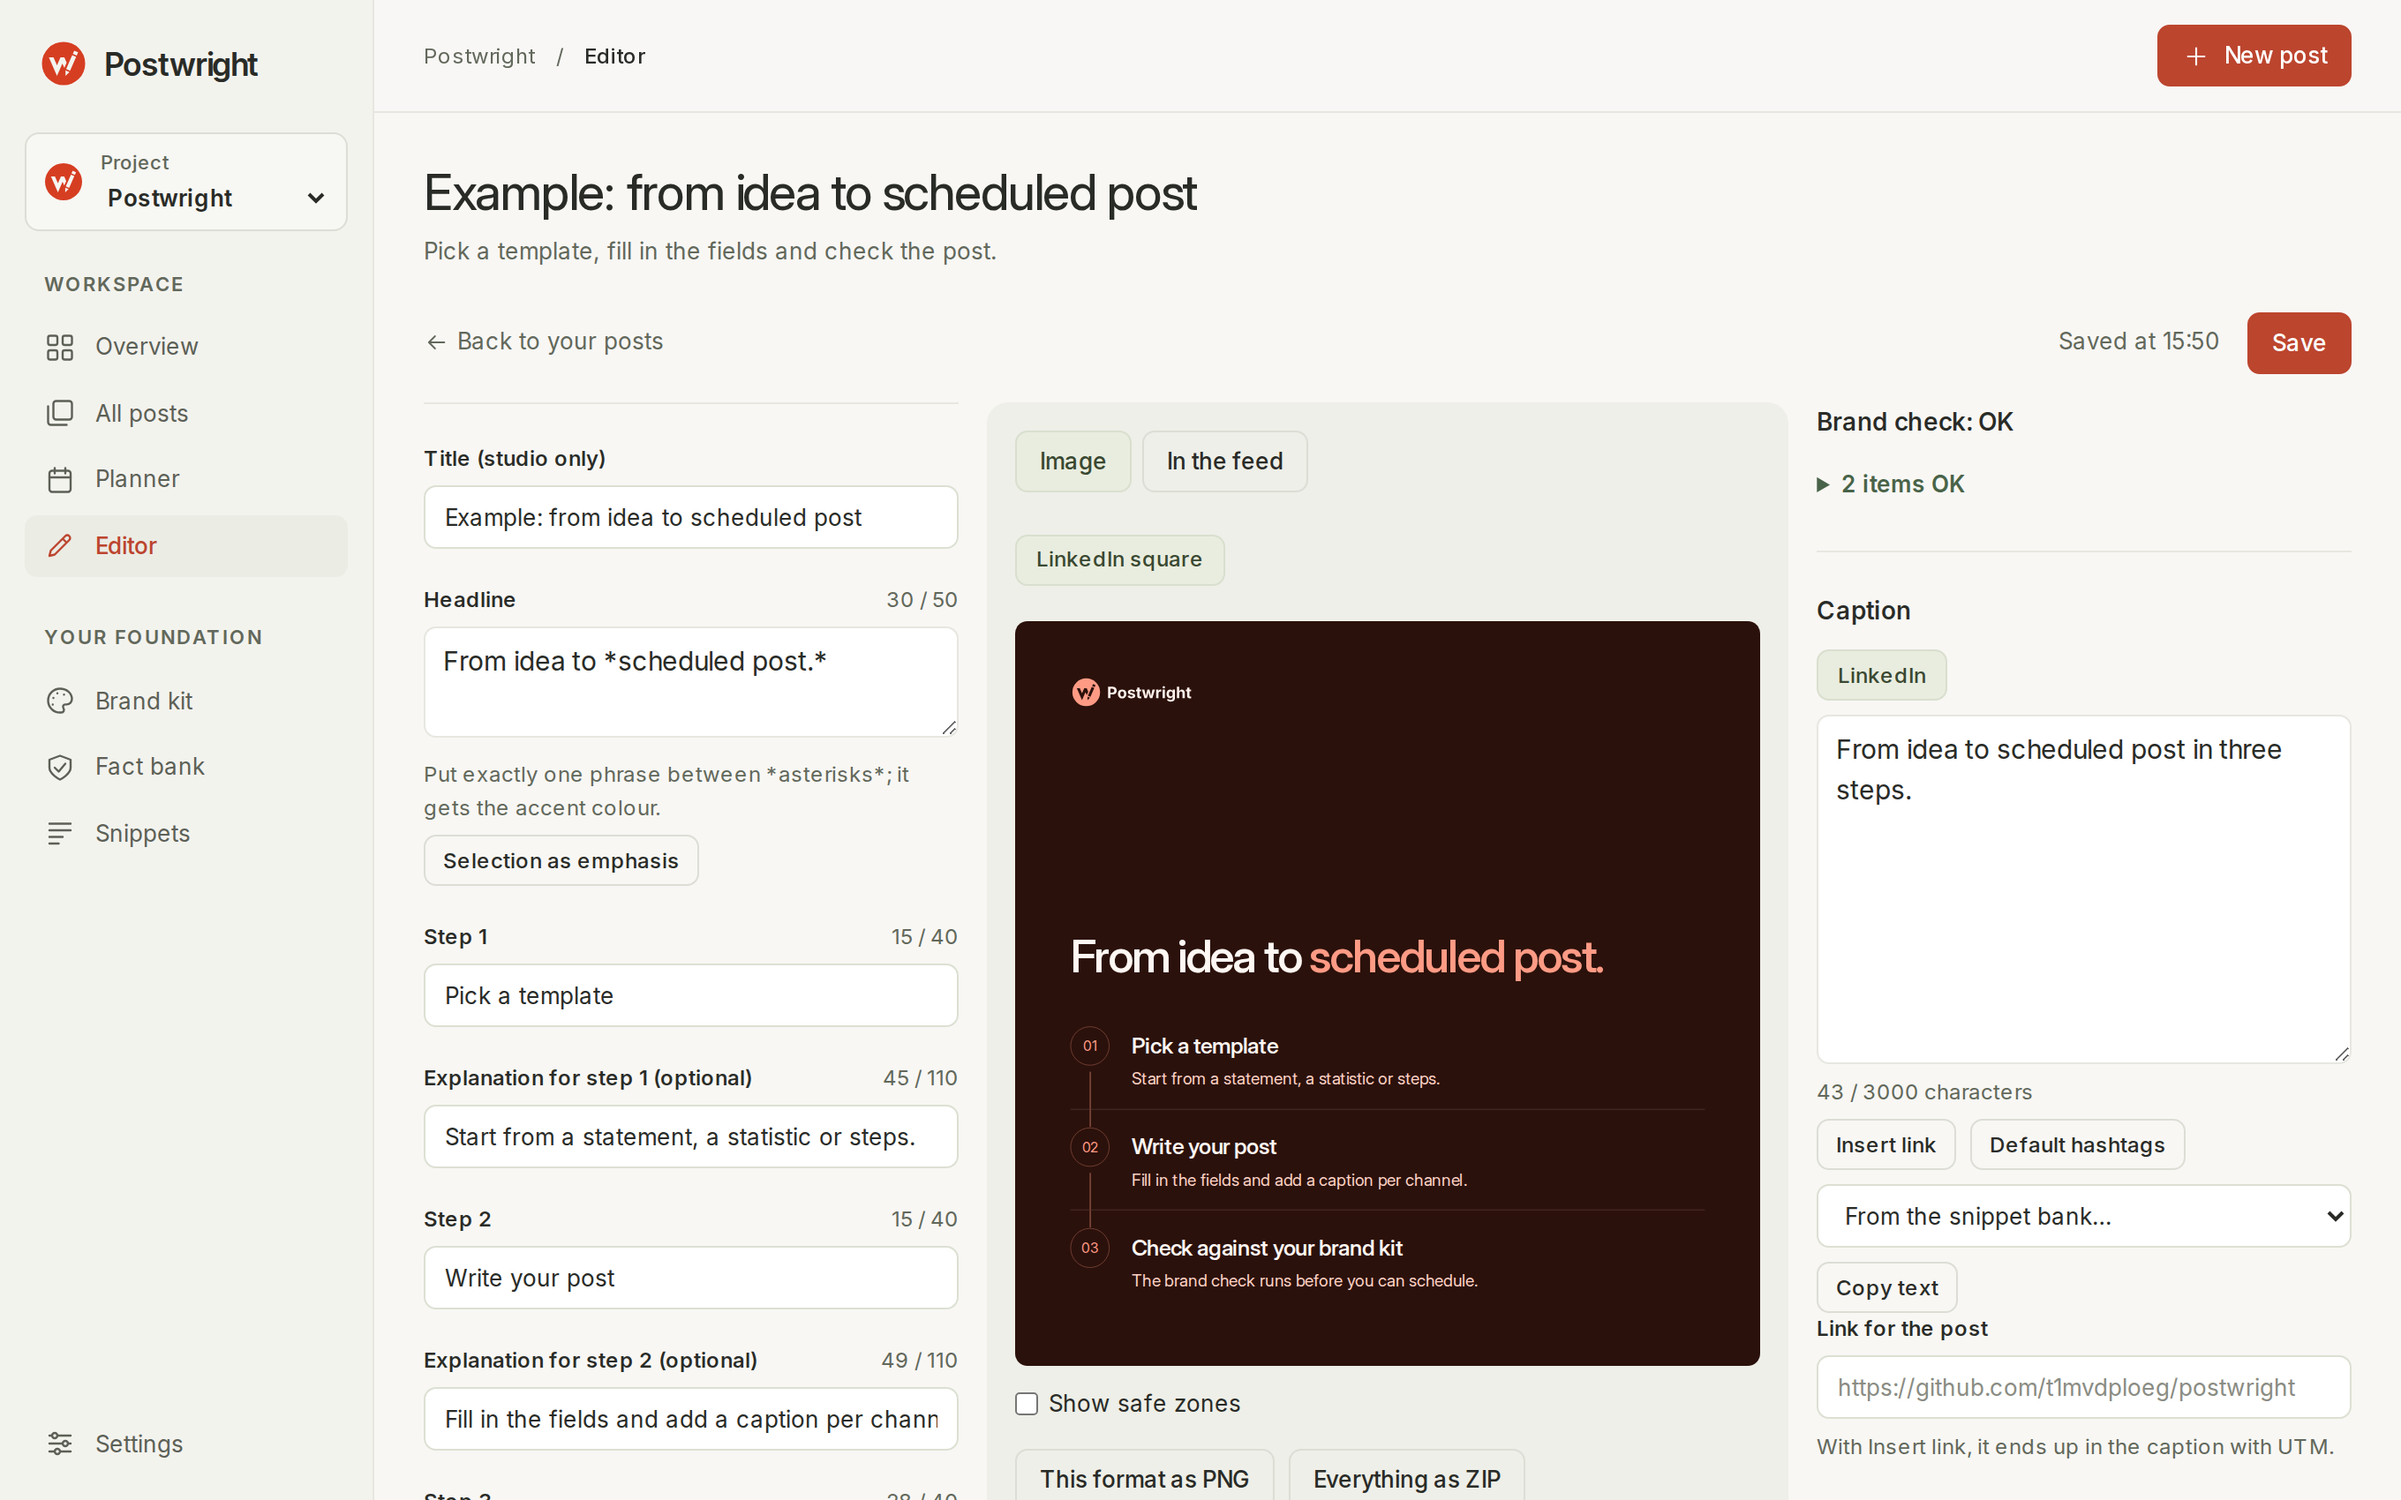
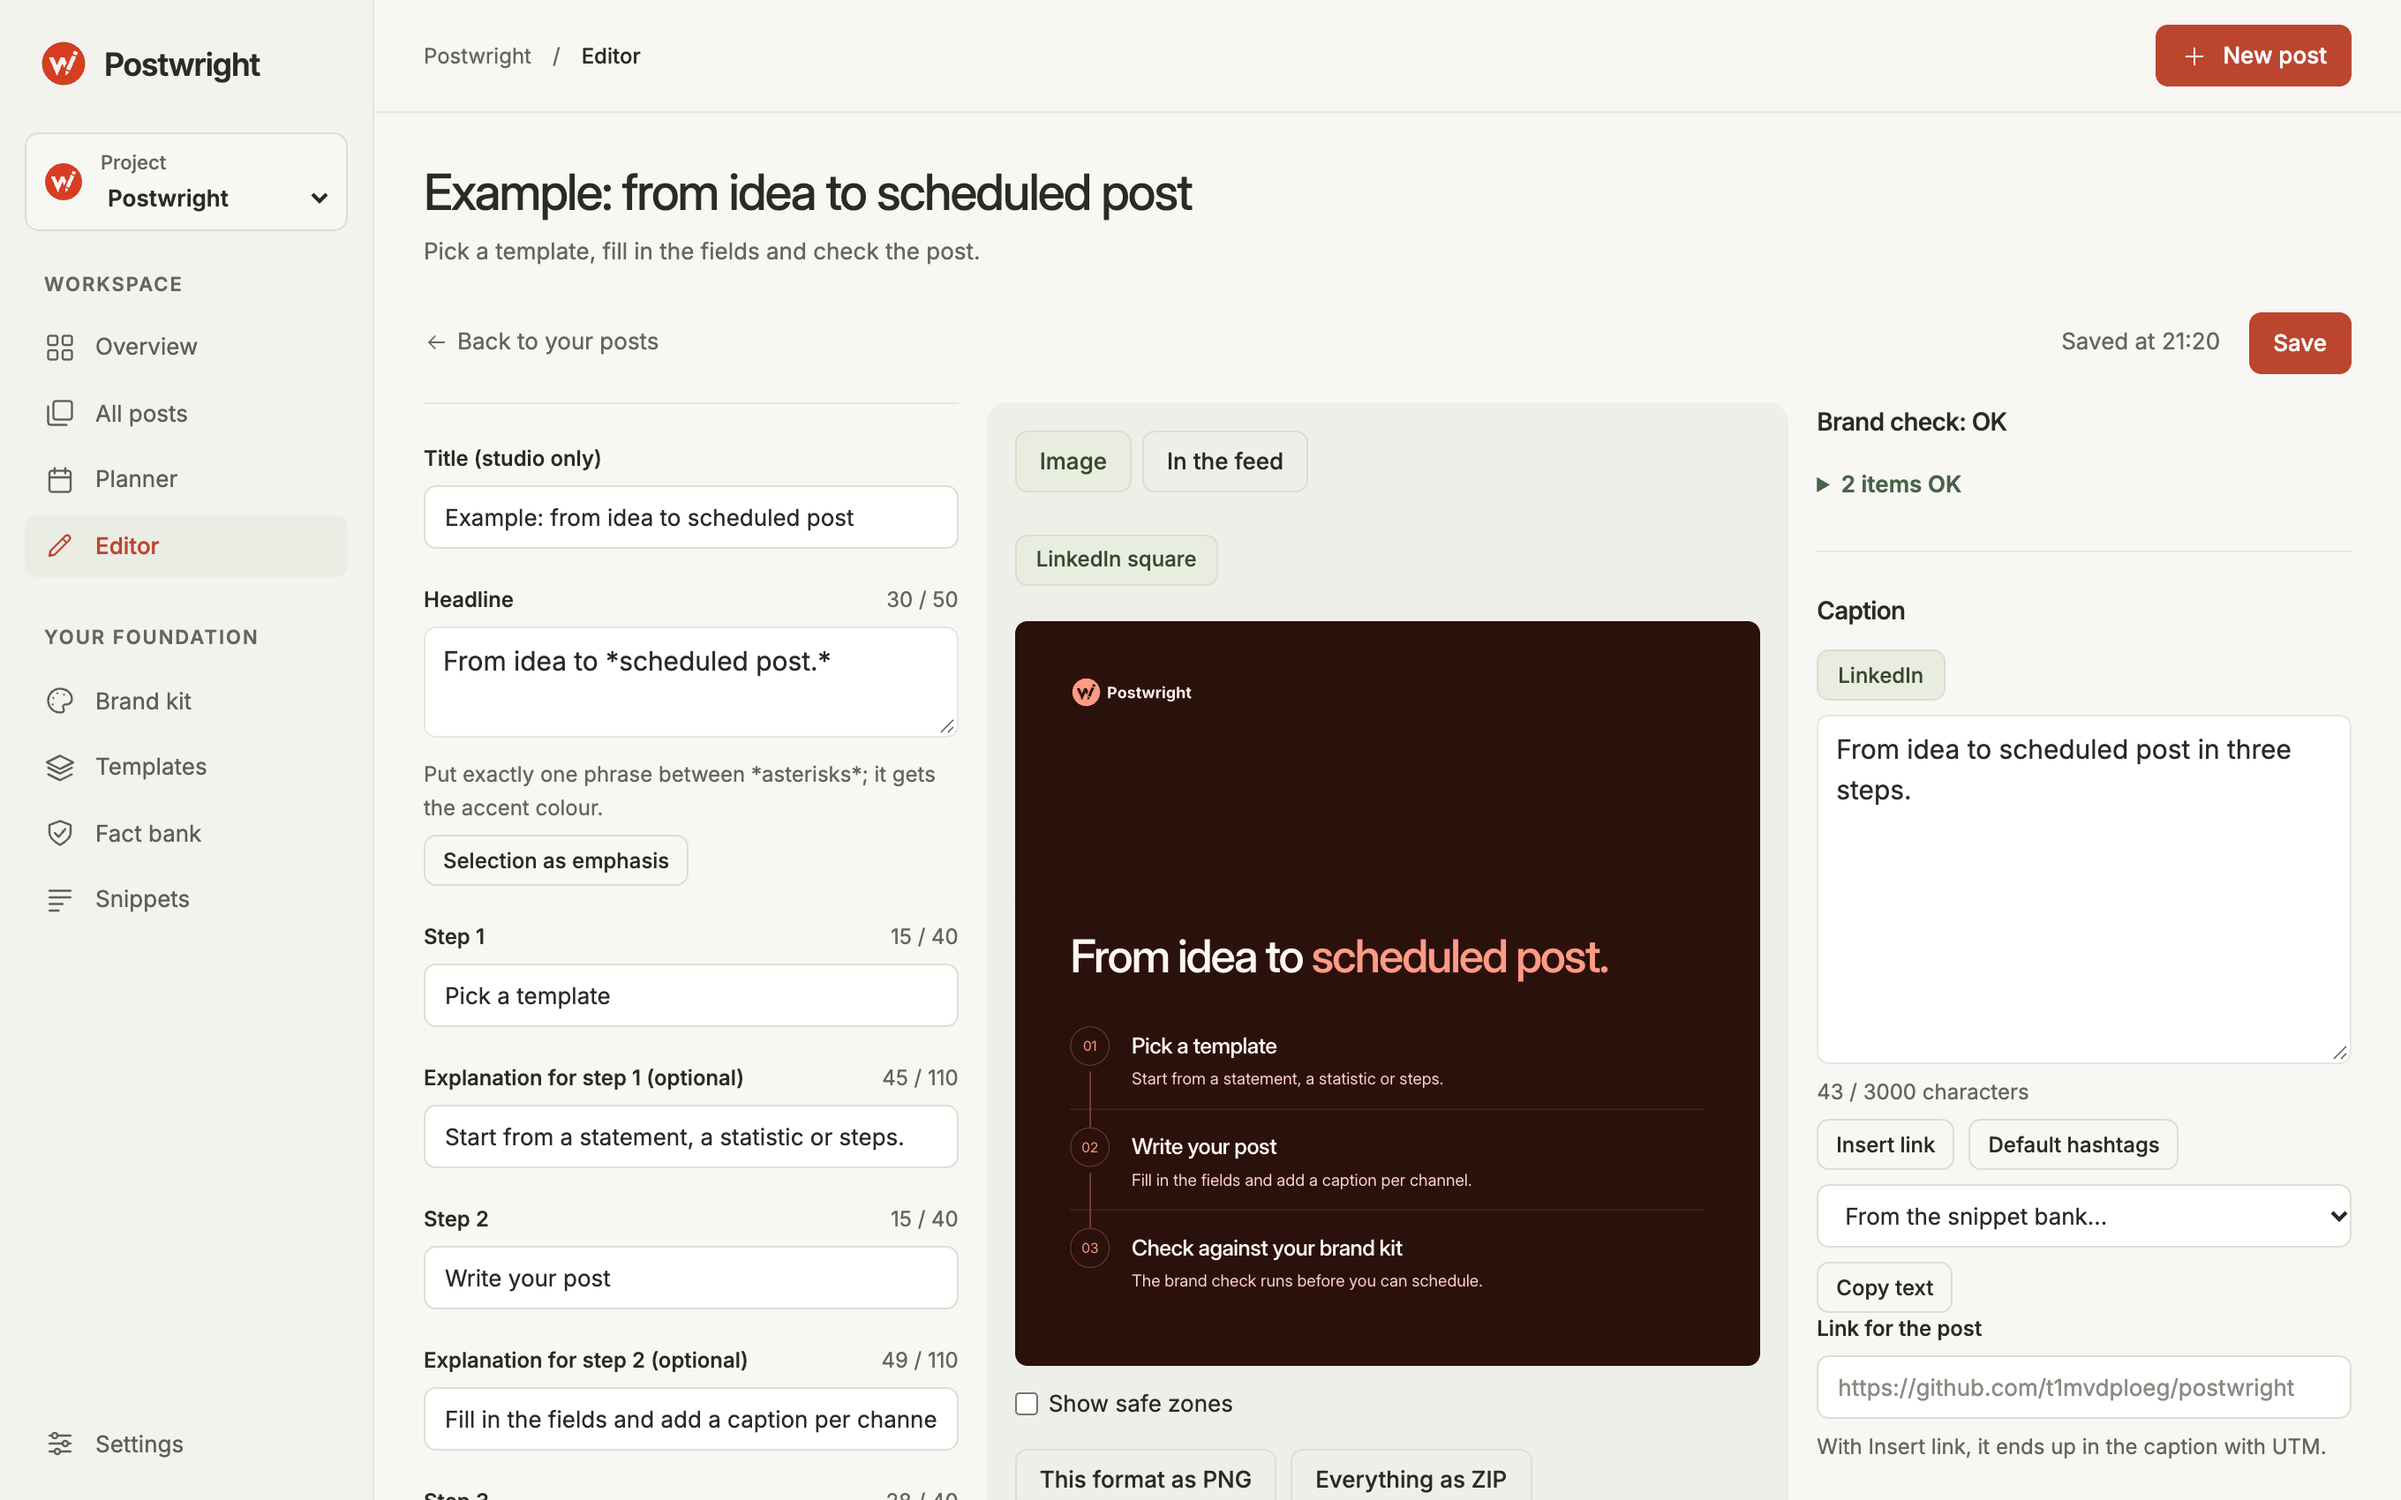
README: shorter, new screenshots with the Templates screen, the three Claude routes together

diff --git a/README.md b/README.md
@@ -30,66 +30,54 @@ npm install
 npm start
 ```
 
-Open `http://127.0.0.1:4173` and choose **Add sample content** on the overview for three example posts. Your work is saved as JSON files in `./data`; set `POSTWRIGHT_DATA_DIR` to keep it elsewhere and `PORT` to use another port.
-
-## A look around
+Open `http://127.0.0.1:4173` and choose **Add sample content** on the overview. Your work is saved as JSON files in `./data`; set `POSTWRIGHT_DATA_DIR` to keep it elsewhere and `PORT` to use another port.
 
 <table>
   <tr>
-    <td width="50%"><img src="assets/screen-overview.png" alt="The overview: the posts on the desk and a look at the week"><br><b>Overview.</b> The posts on your desk, the week ahead, and what needs attention.</td>
-    <td width="50%"><img src="assets/screen-editor.png" alt="The editor: fields, a live preview and the brand check"><br><b>Editor.</b> Fields on the left, the post exactly as it will be exported, and the brand check with the caption.</td>
+    <td width="50%"><img src="assets/screen-overview.png" alt="The overview: the posts on the desk and a look at the week"><br><b>Overview.</b> The posts on your desk and the week ahead.</td>
+    <td width="50%"><img src="assets/screen-editor.png" alt="The editor: fields, a live preview and the brand check"><br><b>Editor.</b> Fields, the post exactly as it will be exported, the brand check and the caption.</td>
   </tr>
   <tr>
-    <td width="50%"><img src="assets/screen-library.png" alt="All posts as cards, with the status as tabs"><br><b>All posts.</b> Every post as artwork, filtered by status, campaign, channel or template.</td>
-    <td width="50%"><img src="assets/screen-brand-kit.png" alt="The brand kit: identity, colours, typography and tone"><br><b>Brand kit.</b> Identity, colours with contrast, typography and tone, and the place to make a new kit.</td>
+    <td width="50%"><img src="assets/screen-templates.png" alt="The Templates screen: screenshots and texts of old posts, a brief and the kind of post"><br><b>Templates.</b> Old posts in, a new template in your brand out.</td>
+    <td width="50%"><img src="assets/screen-brand-kit.png" alt="The brand kit: identity, colours, typography and tone"><br><b>Brand kit.</b> Identity, colours with contrast, typography and tone.</td>
   </tr>
 </table>
 
 ## What it does
 
-- **Templates.** Nine of them: statement, question and answer, steps, statistic, product image, carousel, link preview, LinkedIn profile banner and company cover. Each comes in the formats it suits, ten in all, from a LinkedIn square to an Instagram story. Your own come on top (see below).
-- **Brand check.** Text that runs out of its box, contrast below WCAG, banned words, too many hashtags, a missing alt text, and any number without an active fact behind it. Errors block scheduling; the rest are points of attention.
-- **Facts and snippets.** A fact bank with a source and an optional end date per claim, and a snippet bank for openers, closers and hashtags.
-- **Planning.** Weeks and months, campaigns with UTM tags, and a calendar export (`.ics`).
+- **Templates.** Nine built in, from a statement to a carousel and a LinkedIn banner, in ten formats from a LinkedIn square to an Instagram story. Plus your own, made from your old posts.
+- **Brand check.** Text that runs out of its box, contrast below WCAG, banned words, a missing alt text, and any number without an active fact behind it. Errors block scheduling.
+- **Facts and snippets.** A fact bank with a source and an optional end date per claim, and reusable openers, closers and hashtags.
+- **Planning.** Weeks and months, campaigns with UTM tags, AI ideas for a period, and a calendar export (`.ics`).
 - **Export.** PNG or JPEG per format, a ZIP with every format and the captions, and a PDF for a LinkedIn carousel.
-- **Projects.** One project per brand, each a full workspace of its own: posts, facts, snippets, campaigns, ideas, images and settings. Switch with the picker at the top of the sidebar. A post cannot link to a fact from another project.
+- **Projects.** One per brand, each a full workspace with its own posts, facts, templates, company profile and settings.
+- **Everywhere.** Light and dark mode, and it works on a phone.
 
-## Make a brand kit
+## Let Claude do the groundwork
 
-On the **Brand kit** screen, upload a logo (SVG, or a PNG with a transparent background) and, if you have them, up to eight images, a brand guide as PDF, font files, the website address and a few notes. Then pick a route:
+Three things can be made with Claude, with an API key. The brand kit and templates also have a free route: **Download the prompt** and run it in Claude Code or Codex. Without a key, the studio gives clearly marked sample answers, so every screen can be tried for free.
 
-- **Generate with Claude.** One click, with an API key (see below); the studio proposes colours, grounds with checked contrast, eight logo variants and a font. It takes a few minutes and costs from a few tens of cents to about a dollar.
-- **Download the prompt.** No API cost: run the `.md` file in Claude Code or Codex from the Postwright folder, then choose **Check for a proposal**. The prompt assumes the default `data` folder.
+- **A brand kit** from your logo, images, brand guide, fonts and website: colours with checked contrast, eight logo variants and a font. A few tens of cents to about a dollar.
+- **Your own templates** from screenshots and texts of old posts and a short brief, as a single image or a carousel. Estimated at 10 to 50 cents; not yet measured with a real key.
+- **Writing help and ideas**: captions, headlines and post ideas, kept on topic by the company profile in Settings.
 
-Either way you see the proposal first, with a sample post on each ground. **Use this brand kit** applies it; the previous kit is kept once as `brand-previous`, and posts made with it are flagged by the brand check. To check a proposal from the command line, run `npm run brand:check -- <project>`.
-
-You can also write a brand by hand: a `brand.json` with the files next to it in `data/projects/<project>/brand/`, with the built-in brand in `src/web/brand/` as the example.
-
-## Make your own templates
-
-On the **Templates** screen, give the studio screenshots of old posts (up to six), the text of some posts and a short brief, and choose single image or carousel and the formats. **Generate with Claude** proposes a template in your brand (estimated at 10 to 50 cents, not yet measured; counted towards the cap); without an API key it gives a fixed sample so you can try the screen. Or **Download the prompt**, run it in Claude Code or Codex, and check for the proposal; `npm run template:check -- <project>` checks it from the command line. You see the proposal in every format with the brand check before you keep it. A kept template sits next to the built-in ones in the editor, Convert, the library filter and the planner, and can be renamed or deleted.
-
-## AI writing help
-
-Writing help suggests captions and headlines, and the planner suggests post ideas for a period. Both use the company profile in **Settings** (what you do, sector, offer, audience, region) to stay on topic; numbers still come only from your facts. Without an API key you get sample answers, clearly marked, so you can try everything for free. To use Claude, start with your key in the environment:
+You always see a proposal before anything is applied. Numbers in AI text must come from your facts. One monthly spending cap, $10 by default, is checked before every call, and every call is counted in `data/ai-usage.jsonl`. The key is read from the environment only:
 
 ```bash
 ANTHROPIC_API_KEY=sk-ant-... npm start
 ```
 
-The key is read from the environment only: never written to a file, sent to the browser or logged. Writing help uses `claude-sonnet-5-5` and the brand kit `claude-opus-5-5` (change them with `POSTWRIGHT_MODEL` and `POSTWRIGHT_BRAND_MODEL`). One monthly spending cap in Settings, shared by all projects ($10 by default, per UTC month), is checked before each call. Every call is counted in `data/ai-usage.jsonl`.
-
 ## How it works
 
-The browser does the drawing. A template is a small module that turns fields into HTML and CSS; the preview shows it in a sandboxed iframe, and the export draws the same HTML onto a canvas, so preview equals export. The server is a small Node http server on `127.0.0.1` only, which stores everything as JSON files and talks to the Claude API. There is no build step: plain ES modules in the browser, TypeScript on the server through `tsx`. A built-in template is code; one of your own is data (fields, a tree of elements and some CSS) that a single validator checks before it is ever drawn: no scripts, no remote loads, no colours outside the brand.
+The browser does the drawing. A template turns fields into HTML and CSS; the preview shows it in a sandboxed iframe and the export draws the same HTML onto a canvas, so preview equals export. A built-in template is code. One of your own is data: fields, a tree of elements and some CSS, which one validator checks before it is ever drawn: no scripts, no remote loads, no colours outside the brand. The server is a small Node server on `127.0.0.1` that stores JSON files and talks to the Claude API. No build step.
 
 ```bash
-npm test            # 993 tests, among them a leak check on every tracked file and a phone-width check in Chrome
+npm test            # unit tests, a leak check on every tracked file, and a phone-width check in Chrome
 npm run typecheck
 npm run format:check
 ```
 
-The studio's look, warm paper with clay as the one accent, is described in [DESIGN.md](DESIGN.md). It follows the system's dark mode and works on a phone. In the editor, Ctrl+S or ⌘S saves.
+The design is described in [DESIGN.md](DESIGN.md).
 
 ## What it does not do
 
